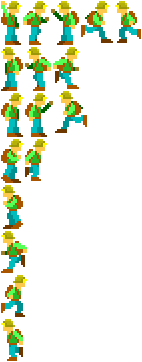
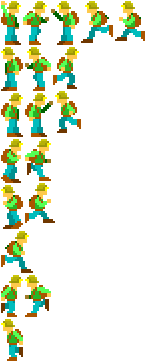
Improved player movement

Changed region(s): [[0.0, 0.0, 0.9859, 1.0], [0.0282, 0.4254, 0.0563, 0.5166], [0.0563, 0.395, 0.0845, 0.4254]]

diff --git a/js/playerFactory.js b/js/playerFactory.js
@@ -1,5 +1,4 @@
 var PlayerFactory = {
-
     create: function (x, y) {
         var player,
             stateHealth,
@@ -10,21 +9,21 @@ var PlayerFactory = {
             motionEnum = {'STANDING': 1, 'RUNNING': 2, 'JUMPING': 3, 'FALLING': 4, 'DESCENDING': 5},
             graphics,
             // Constants
-            DEFAULT_SPEED = 180,
-            DEFAULT_JUMP_SPEED = 310,
-            DEFAULT_GRAPPLE_JUMP_SPEED = 310,
-            DEFAULT_FALLING_GRAVITY = 820,
-            DEFAULT_DESCENDING_GRAVITY = 300,
+            SPEED = 160,
+            JUMP_SPEED = 340,
+            GRAPPLE_JUMP_SPEED = 340,
+            FALLING_GRAVITY = 1000,
+            DESCENDING_GRAVITY = 300,
             // TODO: move this out of here
             grappleAimAngle = 0,
             grappleAimAngleDirection = 1;
 
         player = game.add.sprite(x, y, 'player');
         game.physics.arcade.enable(player);
-        player.animations.add('right', Phaser.Animation.generateFrameNames('player/run/right/', 1, 6, '', 1), 10, true, false);
-        player.animations.add('left', Phaser.Animation.generateFrameNames('player/run/left/', 1, 6, '', 1), 10, true, false);
+        player.animations.add('right', Phaser.Animation.generateFrameNames('player/run/right/', 1, 6, '', 1), 12, true, false);
+        player.animations.add('left', Phaser.Animation.generateFrameNames('player/run/left/', 1, 6, '', 1), 12, true, false);
         player.anchor.set(0.5);
-        player.body.gravity.y = DEFAULT_DESCENDING_GRAVITY;
+        player.body.gravity.y = DESCENDING_GRAVITY;
         player.body.collideWorldBounds = true;
         player.body.setSize(20, 44, 17, 2); // collision box
         game.camera.follow(player, Phaser.Camera.FOLLOW_TOPDOWN);
@@ -42,7 +41,7 @@ var PlayerFactory = {
             eventController.subscribe(handleButtonLeft, 'BUTTON_LEFT');
             eventController.subscribe(handleButtonRight, 'BUTTON_RIGHT');
             eventController.subscribe(handleButtonJump, 'BUTTON_JUMP');
-            eventController.subscribe(handleRequestPlayerStopMoving, 'REQUEST_PLAYER_STOP_MOVING');
+            eventController.subscribe(handleButtonLeftRightNotPressed, 'BUTTON_LEFT_RIGHT_NOT_PRESSED');
             eventController.subscribe(handlePlayerTouchingDown, 'PLAYER_TOUCHING_DOWN');
             eventController.subscribe(handlePlayerNotTouchingDown, 'PLAYER_NOT_TOUCHING_DOWN');
             eventController.subscribe(handleGrappleFullyRetracted, 'GRAPPLE_FULLY_RETRACTED');
@@ -50,13 +49,14 @@ var PlayerFactory = {
             eventController.subscribe(handleGrappleCancel, 'GRAPPLE_CANCEL');
             eventController.subscribe(handleGrappleShoot, 'GRAPPLE_SHOOT');
             eventController.subscribe(handleGrappleAim, 'GRAPPLE_AIM');
+            eventController.subscribe(handleBeatRoom, 'BEAT_ROOM');
         };
 
         player.unregisterEvents = function () {
             eventController.unsubscribe(handleButtonLeft);
             eventController.unsubscribe(handleButtonRight);
             eventController.unsubscribe(handleButtonJump);
-            eventController.unsubscribe(handleRequestPlayerStopMoving);
+            eventController.unsubscribe(handleButtonLeftRightNotPressed);
             eventController.unsubscribe(handlePlayerTouchingDown);
             eventController.unsubscribe(handlePlayerNotTouchingDown);
             eventController.unsubscribe(handleGrappleFullyRetracted);
@@ -64,6 +64,7 @@ var PlayerFactory = {
             eventController.unsubscribe(handleGrappleCancel);
             eventController.unsubscribe(handleGrappleShoot);
             eventController.unsubscribe(handleGrappleAim);
+            eventController.unsubscribe(handleBeatRoom);
         };
 
         player.setGraphics = function (sharedGraphics) {
@@ -88,7 +89,10 @@ var PlayerFactory = {
          */
 
         var jump = function () {
-            player.body.velocity.y = -DEFAULT_JUMP_SPEED;
+            var orientation = (isFacingLeft() ? 'left' : 'right');
+
+            player.body.velocity.y = -JUMP_SPEED;
+            player.frameName = 'player/jump/' + orientation;
         };
 
         var stopMoving = function () {
@@ -103,26 +107,34 @@ var PlayerFactory = {
         };
 
         var moveLeft = function () {
-            player.body.velocity.x = -DEFAULT_SPEED;
-            player.animations.play('left');
+            player.body.velocity.x = -SPEED;
+            if (player.body.touching.down) {
+                player.animations.play('left');
+            } else {
+                player.animations.stop();
+                player.frameName = 'player/jump/left';
+            }
         };
 
         var moveRight = function () {
-            player.body.velocity.x = DEFAULT_SPEED;
-            player.animations.play('right');
-        };
-
-        var faceRight = function () {
-            player.frameName = 'player/jump/right';
-        };
-
-        var faceLeft = function () {
-            player.frameName = 'player/jump/left';
+            player.body.velocity.x = SPEED;
+            if (player.body.touching.down) {
+                player.animations.play('right');
+            } else {
+                player.animations.stop();
+                player.frameName = 'player/jump/right';
+            }
         };
 
         var fall = function () {
             var motion = (isJumping() ? 'jump' : 'fall'),
                 orientation = (isFacingLeft() ? 'left' : 'right');
+
+            // Player may be falling even as the grapple retracts
+            // TODO: Handle this state conflict better
+            if (player.body.velocity.y > 0) {
+                player.body.velocity.x = 0;
+            }
 
             player.frameName = 'player/' + motion + '/' + orientation;
             player.animations.stop();
@@ -134,7 +146,7 @@ var PlayerFactory = {
         };
 
         var touchDown = function () {
-            player.body.gravity.y = DEFAULT_FALLING_GRAVITY;
+            player.body.gravity.y = FALLING_GRAVITY;
         };
 
         /**
@@ -227,7 +239,7 @@ var PlayerFactory = {
 
         var grappleJump = function () {
             stateMotion = motionEnum.JUMPING;
-            player.body.velocity.y = -DEFAULT_GRAPPLE_JUMP_SPEED;
+            player.body.velocity.y = -GRAPPLE_JUMP_SPEED;
         };
 
         var shootGrapple = function () {
@@ -258,11 +270,6 @@ var PlayerFactory = {
             if (isDescending()) {
                 return;
             }
-            if (!player.body.touching.down) {
-                stateOrientation = orientationEnum.LEFT;
-                faceLeft();
-                return;
-            }
             stateOrientation = orientationEnum.LEFT;
             moveLeft();
         };
@@ -272,11 +279,6 @@ var PlayerFactory = {
                 return;
             }
             if (isDescending()) {
-                return;
-            }
-            if (!player.body.touching.down) {
-                stateOrientation = orientationEnum.RIGHT;
-                faceRight();
                 return;
             }
             stateOrientation = orientationEnum.RIGHT;
@@ -294,11 +296,12 @@ var PlayerFactory = {
             jump();
         };
 
-        var handleRequestPlayerStopMoving = function () {
-            if (!isAlive()) {
-                return;
+        var handleButtonLeftRightNotPressed = function () {
+            if (player.body.touching.down) {
+                if (stateMotion !== motionEnum.JUMPING) {
+                    stopMoving();
+                }
             }
-            stopMoving();
         };
 
         var handlePlayerTouchingDown = function () {
@@ -345,6 +348,10 @@ var PlayerFactory = {
 
         var handleGrappleAim = function () {
             aimGrapple();
+        };
+
+        var handleBeatRoom = function () {
+            stopMoving();
         };
 
         return player;

diff --git a/js/statePlay.js b/js/statePlay.js
@@ -49,7 +49,7 @@ var statePlay = function () {
         levelWidth = levelXml.getElementsByTagName('width')[0].innerHTML;
 
         game.world.setBounds(0, 0, parseInt(levelWidth), 900);
-        game.physics.arcade.checkCollision.up = false;
+        game.physics.arcade.checkCollision.up = false; // or you'll hit your head on the cave ceiling
         game.stage.backgroundColor = '#000000';
 
         // For grapple and floor marks
@@ -186,9 +186,7 @@ var statePlay = function () {
         }
 
         if (!isTouchingButtonLeft && !isTouchingButtonRight) {
-            if (player.body.touching.down) {
-                eventController.trigger('REQUEST_PLAYER_STOP_MOVING');
-            }
+            eventController.trigger('BUTTON_LEFT_RIGHT_NOT_PRESSED');
         }
 
         // Shoot grapple
@@ -238,10 +236,10 @@ var statePlay = function () {
             pixelCount += length;
         }
 
-        platforms.forEach(function (item) {
-            item.body.immovable = true;
-            item.body.checkCollision.left = false;
-            item.body.checkCollision.right = false;
+        platforms.forEach(function (platform) {
+            platform.body.immovable = true;
+            platform.body.checkCollision.left = false;
+            platform.body.checkCollision.right = false;
         }, self);
 
         // Level text
@@ -275,40 +273,28 @@ var statePlay = function () {
         platforms.enableBody = true;
 
         // ground
-        floorPlatform = createPlatform(5, platformVerticalSpacing * 15, width - 5, platformHeight);
+        floorPlatform = createPlatform(5, platformVerticalSpacing * 12, width - 5, platformHeight);
         pixelCount = width - 5;
 
         // platforms
-        for (i = 2; i < 15; i++) {
+        for (i = 2; i < 12; i++) {
             createRow(i);
         }
 
-        // starting platform
-        createPlatform(5, platformVerticalSpacing, 60, platformHeight);
-        pixelCount += 60;
-
         platforms.forEach(function (item) {
             item.body.immovable = true;
-            item.body.checkCollision.left = false;
-            item.body.checkCollision.right = false;
         }, self);
     };
 
     var createRow = function (rowNumber) {
         // Create initial gap
-        var maxX = randomInRange(5, 20) * 15, // The x position of the right pixel of the rightmost platform
+        var maxX = randomInRange(2, 20) * 15, // The x position of the right pixel of the rightmost platform
             newMaxX = 0,
             rowCount = 0,
-            maxRightEdge = 2150;
-
-        // Create some space for the initial platform
-        if (rowNumber === 2) {
-            maxX += 70;
-            maxRightEdge -= 70;
-        }
+            maxRightEdge = 1000;
 
         while (maxX < maxRightEdge) { // Don't go to the right edge
-            newMaxX = maxX + randomInRange(3, 10) * 15;
+            newMaxX = maxX + randomInRange(4, 15) * 15;
             createPlatform(maxX, platformVerticalSpacing * rowNumber, newMaxX - maxX, platformHeight);
             rowCount += (newMaxX - maxX) + 1;
             // Create a gap
@@ -318,12 +304,14 @@ var statePlay = function () {
         pixelCount += rowCount;
     };
 
+    // TODO: Create a platform class
     var createPlatform = function (x, y, width, height) {
         var platform = game.add.tileSprite(x, y, width, height, 'ground');
         platforms.add(platform);
         return platform;
     };
 
+    // TODO: Create a signpost class
     var createSignpost = function (x, y) {
         var signpost = game.add.sprite(x, y + 1, 'signpost'); // +1 to ensure collision with platform
         signposts.add(signpost);
@@ -335,7 +323,7 @@ var statePlay = function () {
     var beatRoom = function () {
         redrawScreen(); // Make sure the last floor mark is displayed
 
-        eventController.trigger('REQUEST_PLAYER_STOP_MOVING');
+        eventController.trigger('BEAT_ROOM');
         animationScene = true;
         roomComplete = true;
 
@@ -419,6 +407,7 @@ var statePlay = function () {
         }
     };
 
+    // TODO: WTF is this doing here?
     var retractGrapple = function () {
         grapple.body.velocity.x = 0;
         grapple.body.velocity.y = 0;
@@ -426,10 +415,12 @@ var statePlay = function () {
         grapple.isRetracting = true;
     };
 
+    // TODO: WTF is this doing here?
     var movePlayerToGrapple = function () {
         game.physics.arcade.moveToXY(player, grapple.x, grapple.y + 20, 300);
     };
 
+    // TODO: WTF is this doing here?
     var drawGrapple = function () {
         graphics.lineStyle(1, 0xffffff);
         graphics.moveTo(player.x, player.y);
@@ -438,6 +429,7 @@ var statePlay = function () {
 
     var redrawScreen= function () {
         graphics.clear();
+        // TODO: Trigger an event instead
         floorMarks.draw(platformHeight, floorMarkColor, platformVerticalSpacing);
     };
 
@@ -450,14 +442,15 @@ var statePlay = function () {
         level++;
     };
 
+    // TODO: Trigger an event instead
     var collidePlayerPlatform = function (player, platform) {
         // Allow player to jump up through the platform
         if (player.body.velocity.y >= 0) {
             // Only mark the platform if the player is standing on it
             if ((player.y + player.height / 2 - 4) < platform.y) {
                 floorMarks.newFloorMark(platform, player, platformVerticalSpacing);
+                return true;
             }
-            return true;
         }
         return false;
     };
@@ -466,12 +459,14 @@ var statePlay = function () {
         return true;
     };
 
+    // TODO: Trigger an event instead
     var collideGrapplePlatform = function (grapple, platform) {
         if (grapple.isShooting) {
             retractGrapple();
         }
     };
 
+    // TODO: Trigger an event instead
     var collideSignpostPlatform = function (signpost, platform) {
         floorMarks.newFloorMark(platform, signpost, platformVerticalSpacing);
         return true;

diff --git a/js/eventController.js b/js/eventController.js
@@ -2,18 +2,23 @@ var EventController = function () {
     var subscribers = [],
         eventTypes = [
             /**
+             * Level events
+             */
+            'BEAT_ROOM',
+
+            /**
              * Movement events
              */
             'BUTTON_LEFT',
             'BUTTON_RIGHT',
             'BUTTON_JUMP',
+            'BUTTON_LEFT_RIGHT_NOT_PRESSED',
 
             /**
              * Player events
              */
             'PLAYER_TOUCHING_DOWN',
             'PLAYER_NOT_TOUCHING_DOWN',
-            'REQUEST_PLAYER_STOP_MOVING',
 
             /**
              * Grapple events
